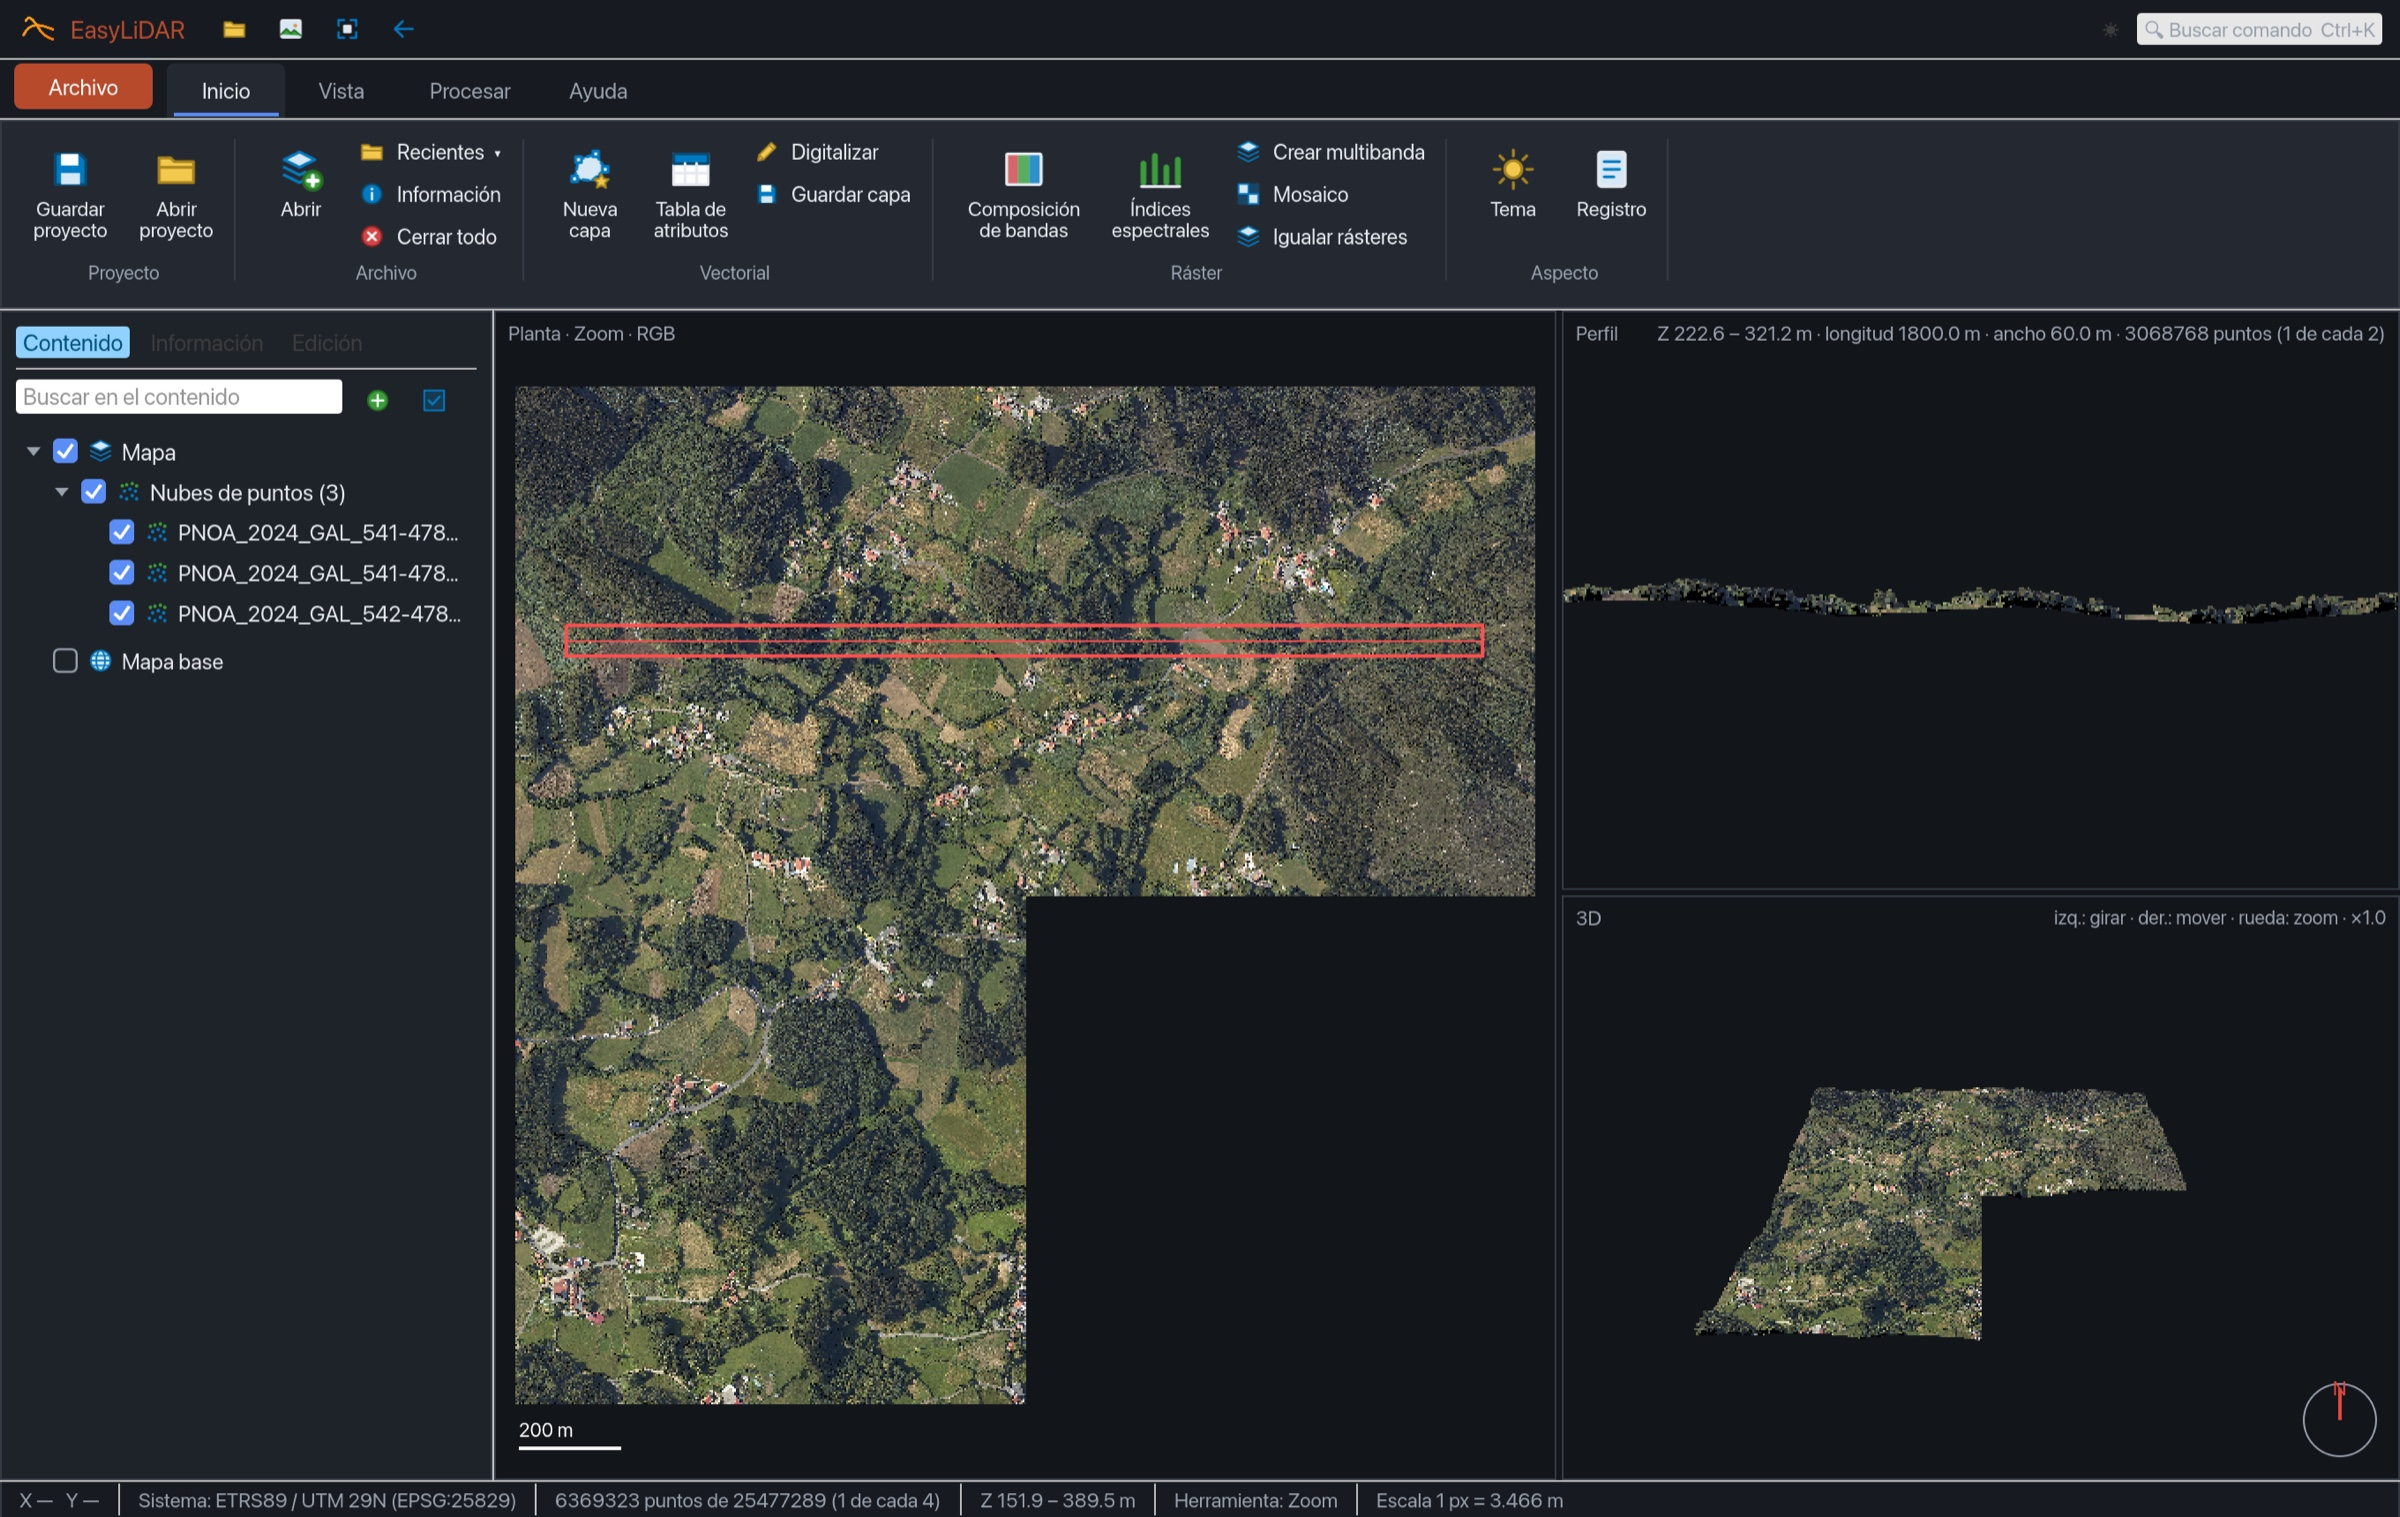
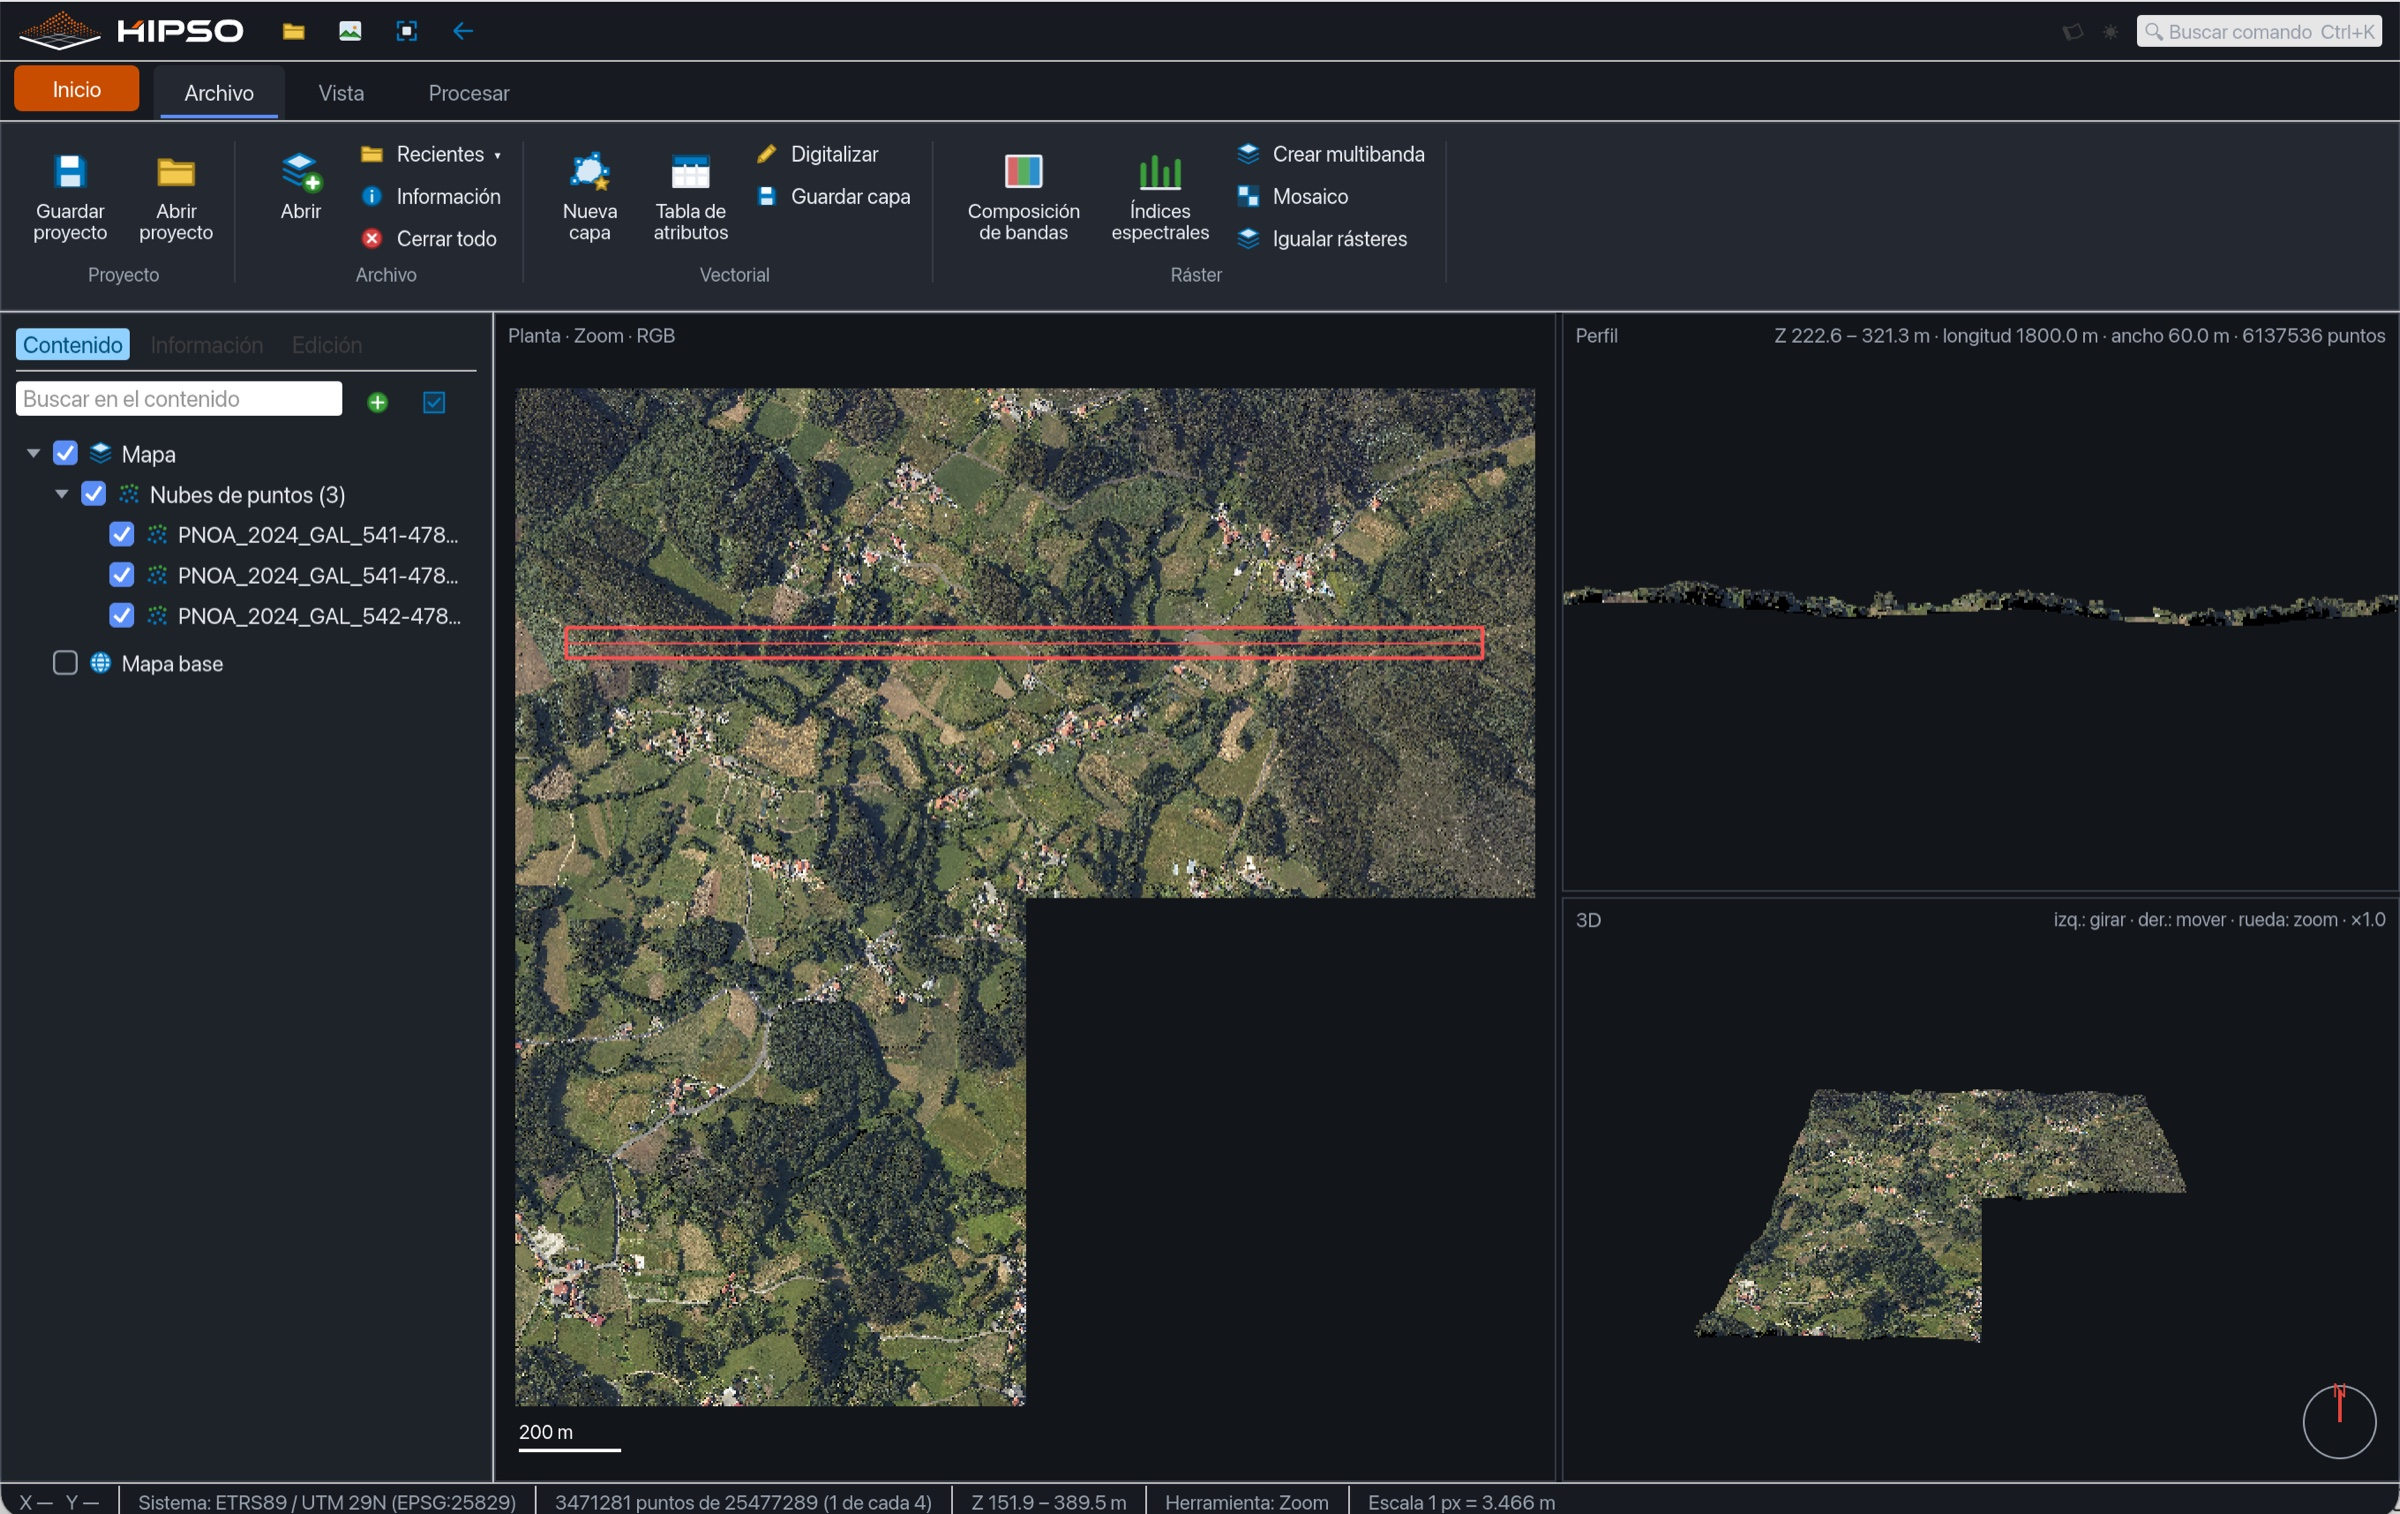
Capturas con la marca HIPSO (01, 03, 07 y 10) e interruptores de arranque --dark y --action

diff --git a/apps/gui/src/main.rs b/apps/gui/src/main.rs
@@ -666,6 +666,7 @@ impl App {
         }
         let mut it = args.into_iter();
         let mut files = Vec::new();
+        let mut startup_actions = Vec::new();
         while let Some(a) = it.next() {
             match a.as_str() {
                 "--tab" => self.tab = it.next().and_then(|v| v.parse().ok()).unwrap_or(0),
@@ -695,6 +696,7 @@ impl App {
                         Some("trees") => Some(ToolId::Trees),
                         Some("clip") => Some(ToolId::Clip),
                         Some("export") => Some(ToolId::Export),
+                        Some("tls") => Some(ToolId::Tls),
                         _ => None,
                     }
                 }
@@ -800,6 +802,23 @@ impl App {
                     }
                 }
                 "--contours" => self.contours_on = true,
+                "--action" => startup_actions.push(match it.next().as_deref() {
+                    Some("terrain") => Action::Terrain,
+                    Some("obia") => Action::Obia,
+                    Some("align") => Action::Align,
+                    Some("change") => Action::Change,
+                    Some("model") => Action::Model,
+                    Some("corridor") => Action::Corridor,
+                    Some("classes") => Action::Classes,
+                    Some("about") => Action::About,
+                    Some("manual") => Action::Manual,
+                    Some("shortcuts") => Action::Shortcuts,
+                    _ => continue,
+                }),
+                "--dark" => {
+                    self.dark = true;
+                    self.theme_pending = false;
+                }
                 "--light" => {
                     self.dark = false;
                     self.theme_pending = false;
@@ -822,6 +841,9 @@ impl App {
             && let Some(v) = self.active_vec_mut()
         {
             v.selected = (0..v.data.features.len()).collect();
+        }
+        for a in startup_actions {
+            self.act(ctx, a);
         }
         if self.rs.compute_at_start {
             self.rs.open = true;
